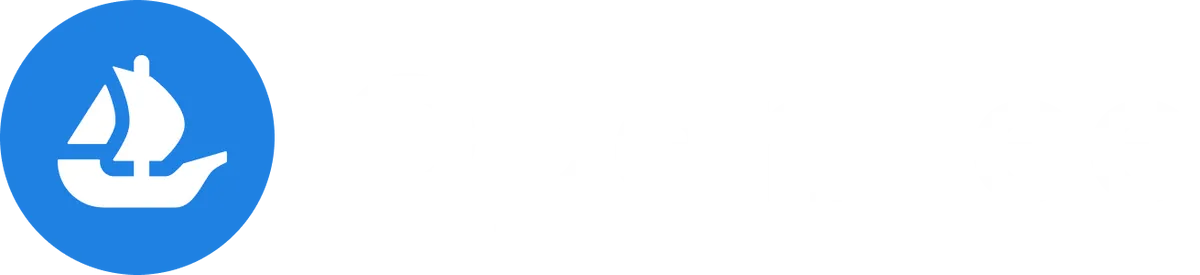
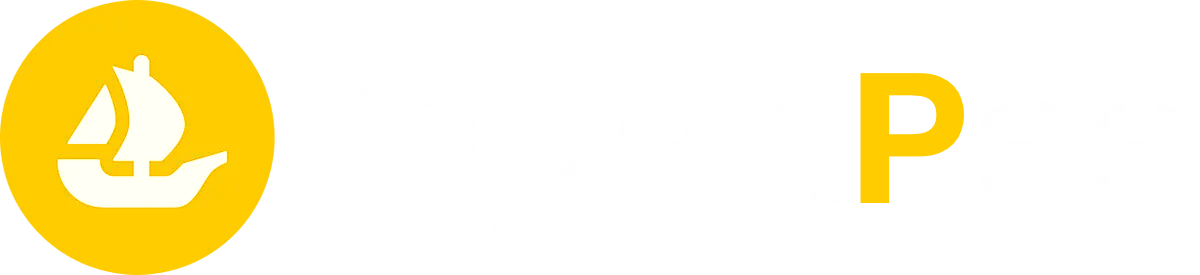
change colors from blue to yellow

Changed region(s): [[0.0, 0.0, 0.2467, 1.0], [0.7092, 0.2618, 0.8017, 0.7564]]

diff --git a/colors.js b/colors.js
@@ -157,8 +157,8 @@ const primaryColors = {
     100: '#F1E5FF',
     300: '#E2CCFF',
     500: '#A966FF',
-    700: 'rgb(32, 129, 226)', //this is the default primary color value
-    900: 'rgb(55, 148, 240)', //this is the button hover color value
+    700: 'rgb(255 204 0)', //this is the default primary color value
+    900: 'rgb(192 158 23)', //this is the button hover color value
   },
 }
 
